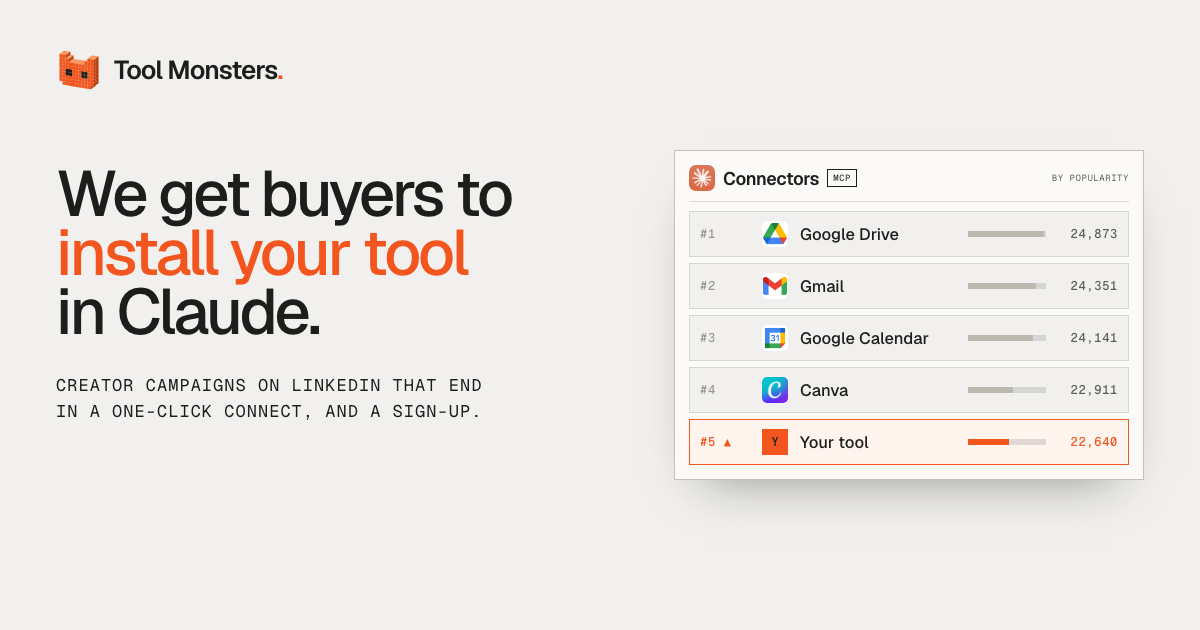
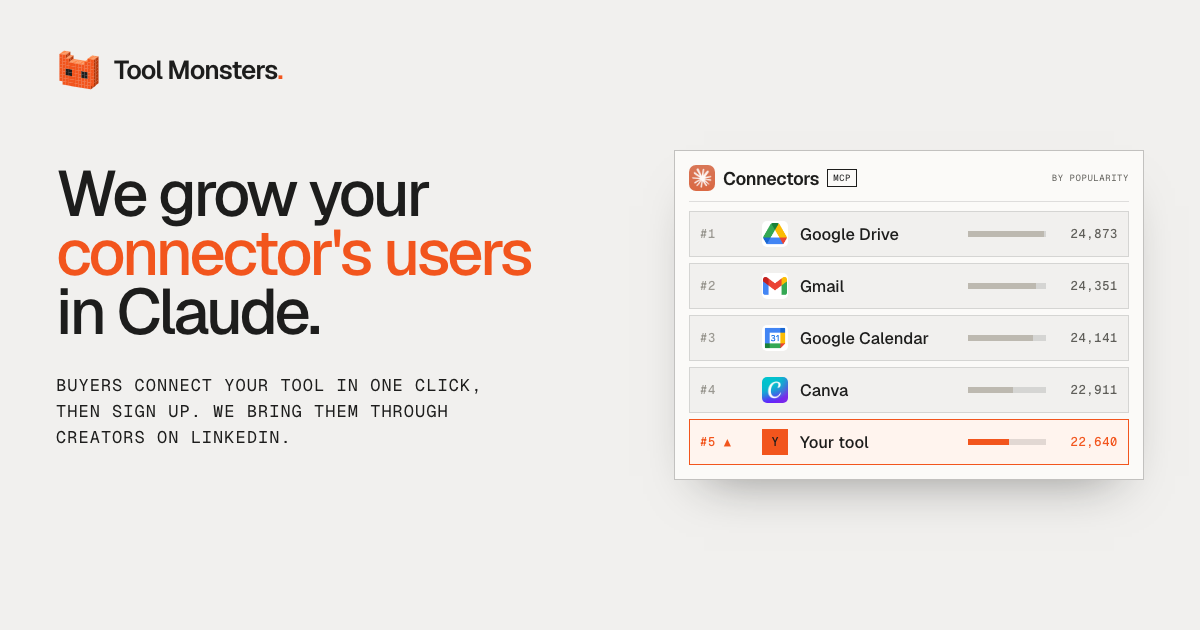
Hero: 'We grow your connector's users in Claude', value in users, never SEO/AEO

Changed region(s): [[0.0308, 0.2714, 0.4625, 0.4524], [0.0308, 0.6032, 0.4008, 0.7238]]

diff --git a/index.html b/index.html
@@ -3,16 +3,16 @@
 <head>
 <meta charset="utf-8">
 <meta name="viewport" content="width=device-width, initial-scale=1, viewport-fit=cover">
-<title>Tool Monsters · We get buyers to install your tool in Claude</title>
+<title>Tool Monsters · We grow your connector's users in Claude</title>
 <link rel="icon" type="image/png" href="fav.png?v=2">
 <link rel="shortcut icon" href="favicon.ico?v=2">
 <link rel="apple-touch-icon" href="apple-touch-icon.png?v=2">
 <link rel="canonical" href="https://www.toolmonsters.com/">
-<meta name="description" content="We get buyers to install your tool in Claude. Creator campaigns on LinkedIn that end in a one-click connect (MCP), and a sign-up. Get your free audit.">
+<meta name="description" content="We grow your connector's users in Claude. Buyers connect your tool (MCP) in one click, then sign up. We bring them through creators on LinkedIn. Get your free audit.">
 <meta property="og:type" content="website">
 <meta property="og:url" content="https://www.toolmonsters.com/">
-<meta property="og:title" content="Tool Monsters · We get buyers to install your tool in Claude">
-<meta property="og:description" content="Creator campaigns on LinkedIn that end in a one-click connect (MCP), and a sign-up. Get your free audit.">
+<meta property="og:title" content="Tool Monsters · We grow your connector's users in Claude">
+<meta property="og:description" content="Buyers connect your tool (MCP) in one click, then sign up. We bring them through creators on LinkedIn. Get your free audit.">
 <meta property="og:image" content="https://www.toolmonsters.com/og.png">
 <meta property="og:image:width" content="1200">
 <meta property="og:image:height" content="630">
@@ -649,8 +649,8 @@ details p { margin: 0 0 26px; color: var(--ink-2); max-width: 60ch; font-size: 1
   <div class="hero-top">
     <div class="wrap grid6 hero-grid z">
       <div class="hero-copy">
-        <h1>We get buyers to <span class="o">install your tool</span> in Claude.</h1>
-        <p class="hero-sub mono">Creator campaigns on LinkedIn that end<br>in a one-click connect, and a sign-up.</p>
+        <h1>We grow your <span class="o">connector's users</span> in Claude.</h1>
+        <p class="hero-sub mono">Buyers connect your tool in one click,<br>then sign up. We bring them through<br>creators on LinkedIn.</p>
         <div class="hero-cta" id="heroForm">
           <a class="btn mono hc-btn" href="#free-audit" data-track="cta_hero">get your free audit <span class="arr">→</span></a>
         </div>
